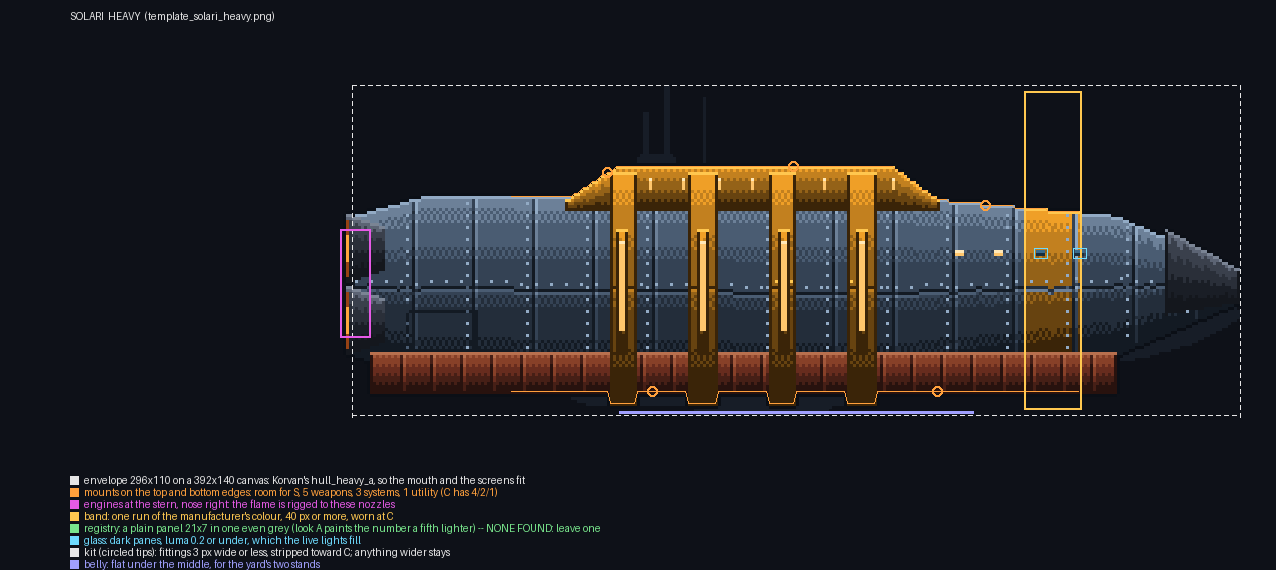
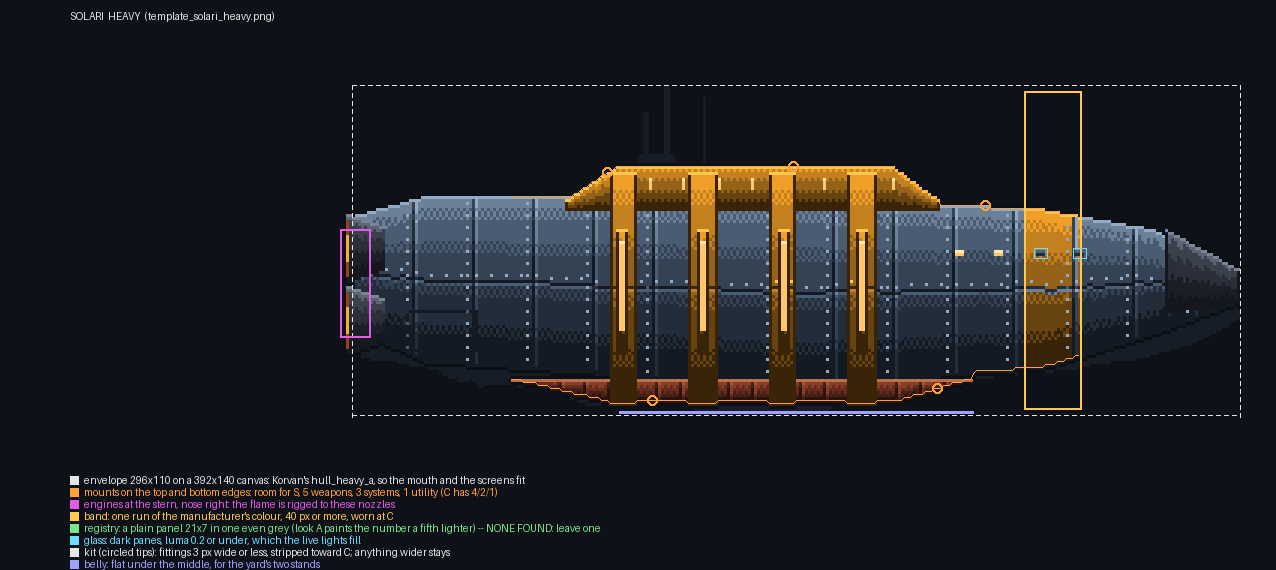
Hull templates: Prominence's nose rounds off, Prominence and Nova get a curved belly and a short blade keel (Jon: C, K3)
Claude-Session: https://claude.ai/code/session_01FQemMvme1wfvjCSMpMkDgS

diff --git a/tkg/art/tools/hull_template.py b/tkg/art/tools/hull_template.py
@@ -158,16 +158,15 @@ SPECS = {
    'kit': [],
    'noz': [(.50, .12), (.68, .12)]},
   'medium': {'parts': [
-     P(('prof', [(0, .40, .76), (.1, .34, .82), (.62, .34, .82), (.82, .38, .76), (.96, .44, .70), (1, .50, .64)]), seams=18,
+     P(('prof', [(0, .40, .70), (.1, .34, .78), (.5, .34, .82), (.75, .38, .78), (.9, .44, .70), (1, .50, .64)]), seams=18,
        rivets=True, belt=.48, ports=[(.3, .62, .8, 4, 3, 2, 2)], band=(.68, .74)),
-     P(('rect', .82, .36, .98, .70), 'steel', seams=6, rivets=True),
-     P(('rect', .06, .78, .80, .88), 'brick', seams=9)] + crest(.12, .56, .34, 9) + rings(.12, .56, .34, .82, 3),
+     P(('poly', [(.16, .80), (.62, .80), (.55, .87), (.24, .87)]), 'brick', seams=8)] + crest(.12, .56, .34, 9) + rings(.12, .56, .34, .82, 3),
    'kit': [],
    'noz': [(.48, .12), (.64, .12)]},
   'heavy': {'parts': [
-     P(('prof', [(0, .40, .82), (.08, .34, .90), (.62, .34, .92), (.86, .40, .82), (1, .56, .66)]), seams=20, rivets=True,
+     P(('prof', [(0, .40, .74), (.08, .34, .84), (.5, .34, .92), (.78, .38, .86), (.9, .44, .76), (1, .56, .66)]), seams=20, rivets=True,
        belt=.5, ports=[(.28, .66, .84, 4, 3, 2, 2)], band=(.76, .82), hatch=[(.06, .6, .14, .8)]),
-     P(('rect', .02, .82, .86, .94), 'brick', seams=10),
+     P(('poly', [(.18, .90), (.70, .90), (.62, .96), (.28, .96)]), 'brick', seams=8),
      P(('poly', [(.92, .44), (1, .56), (1, .66), (.92, .70)]), 'gun')] + crest(.26, .62, .34, 9) + rings(.26, .62, .34, .92, 4),
    'kit': [],
    'noz': [(.50, .14), (.72, .14)]},
